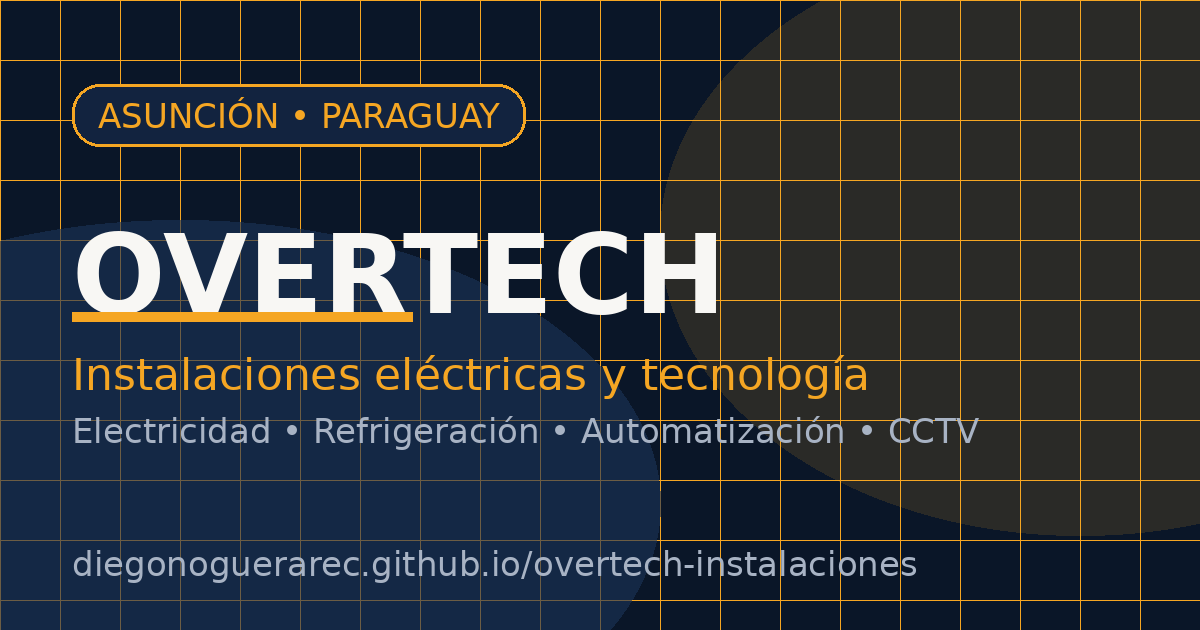
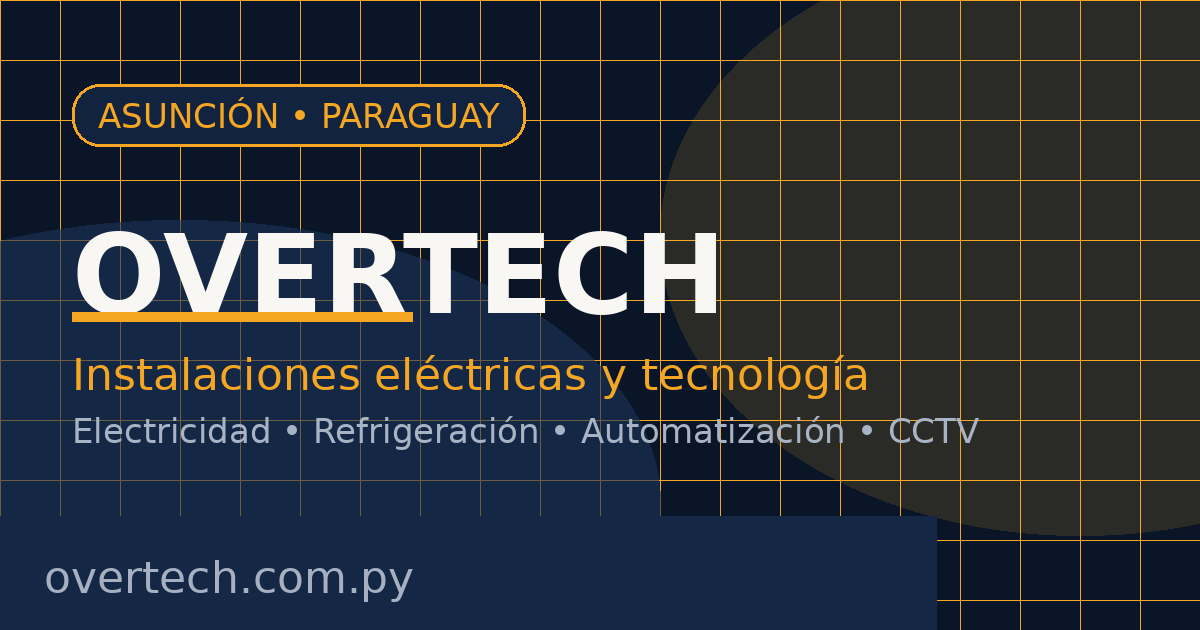
Nueva imagen de url

Changed region(s): [[0.0308, 0.8143, 0.8017, 1.0]]

diff --git a/index.html b/index.html
@@ -18,8 +18,8 @@
   <meta property="og:title" content="Overtech Instalaciones | Electricidad y Tecnología en Paraguay" />
   <meta property="og:description" content="Soluciones eléctricas y tecnológicas confiables. Instalaciones residenciales, comerciales e industriales en Asunción, Paraguay." />
   <meta property="og:site_name" content="Overtech Instalaciones" />
-  <meta property="og:image" content="https://overtech.com.py/assets/og-image.png" />
-  <meta property="og:image:secure_url" content="https://overtech.com.py/assets/og-image.png" />
+  <meta property="og:image" content="https://overtech.com.py/assets/og-image.png?v=2" />
+  <meta property="og:image:secure_url" content="https://overtech.com.py/assets/og-image.png?v=2" />
   <meta property="og:image:type" content="image/png" />
   <meta property="og:image:width" content="1200" />
   <meta property="og:image:height" content="630" />
@@ -30,7 +30,7 @@
   <meta name="twitter:card" content="summary_large_image" />
   <meta name="twitter:title" content="Overtech Instalaciones | Electricidad y Tecnología en Paraguay" />
   <meta name="twitter:description" content="Soluciones eléctricas y tecnológicas confiables. Instalaciones residenciales, comerciales e industriales en Asunción, Paraguay." />
-  <meta name="twitter:image" content="https://overtech.com.py/assets/og-image.png" />
+  <meta name="twitter:image" content="https://overtech.com.py/assets/og-image.png?v=2" />
   <meta name="twitter:image:alt" content="Overtech Instalaciones — Electricidad, Refrigeración, Automatización y CCTV en Asunción, Paraguay" />
 
   <!-- Structured Data (Google) -->